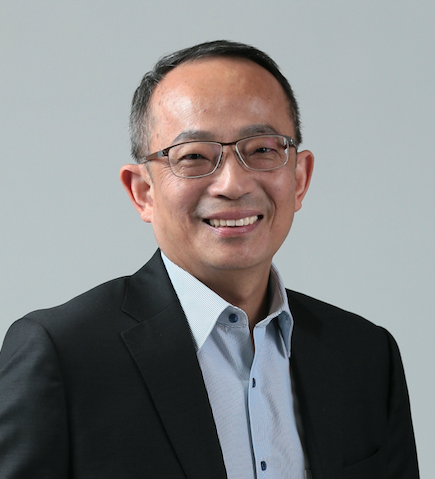
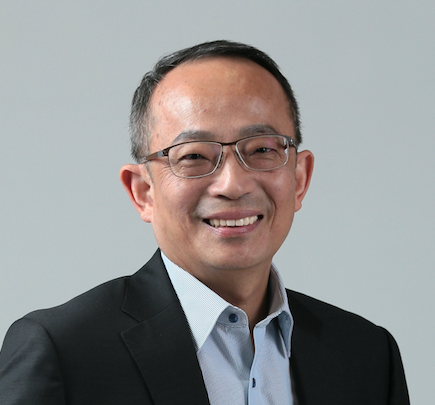
update

diff --git a/members/tim-cheng.html b/members/tim-cheng.html
@@ -455,7 +455,7 @@
   
 <div class="portrait-wrapper">
   <a class="portrait" data-style="" aria-label="Kwang-Ting Cheng">
-    <img src="/vsdl_dpc.github.io/images/timcheng.jpg" class="portrait-image" alt="member portrait" loading="lazy" onerror="this.src = '/vsdl_dpc.github.io/images/fallback.svg'; this.onerror = null;">
+    <img src="/vsdl_dpc.github.io/images/timcheng.png" class="portrait-image" alt="member portrait" loading="lazy" onerror="this.src = '/vsdl_dpc.github.io/images/fallback.svg'; this.onerror = null;">
 
     
       <span class="portrait-text">
